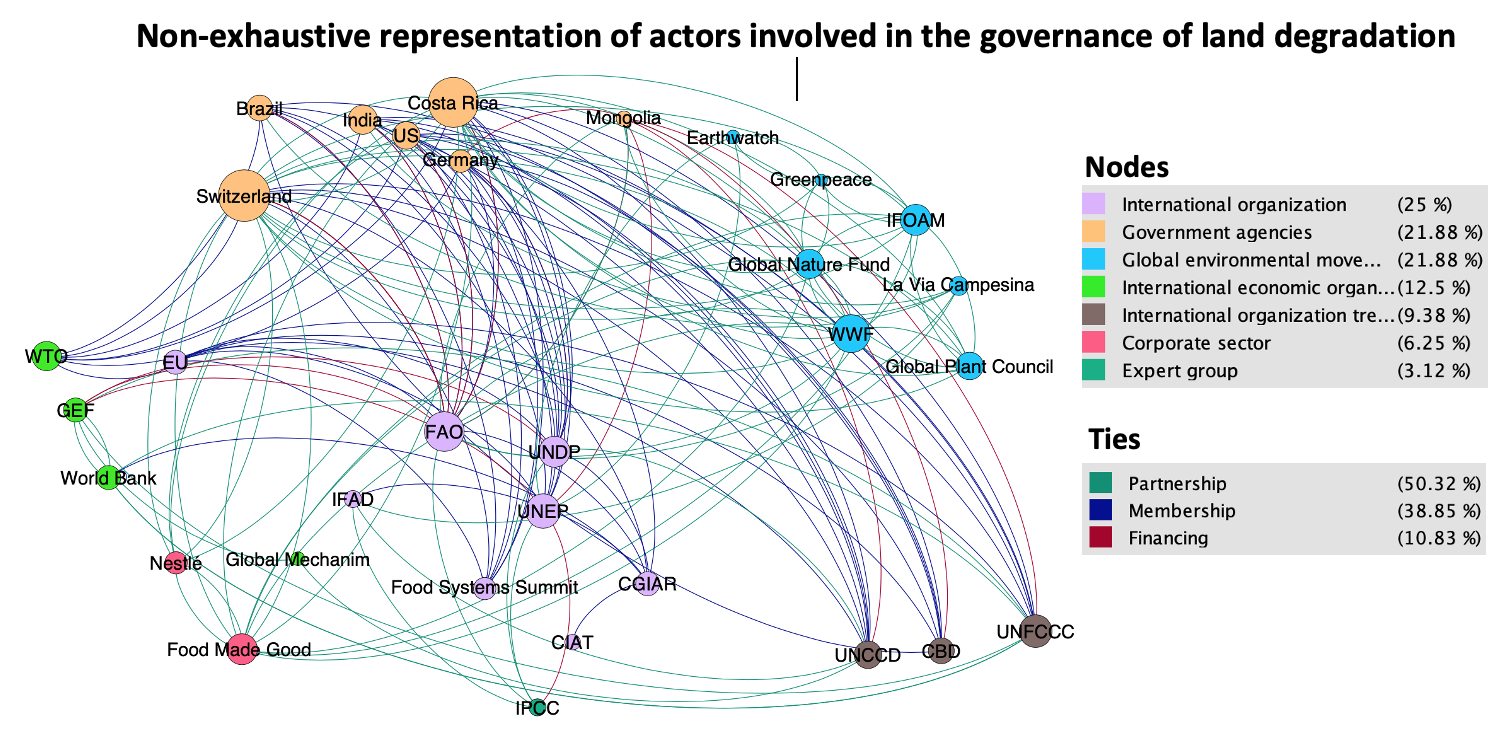
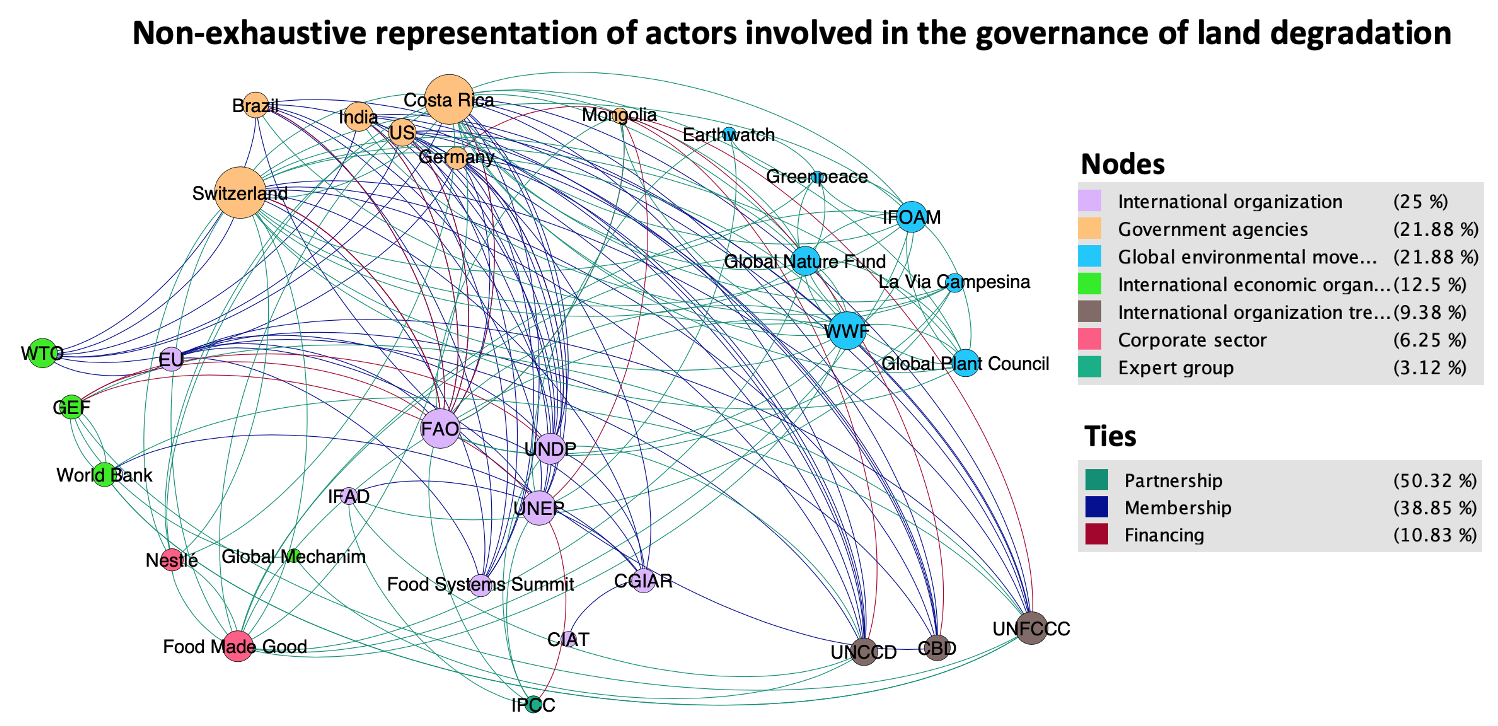
Updated content and config file

diff --git a/content/Issue.md b/content/Issue.md
@@ -5,10 +5,12 @@ showDate: false
 ---
 
 
-According to [recent studies](https://www.nationalgeographic.com/science/article/ipbes-land-degradation-environmental-damage-report-spd), approximately 75% of the world's land area is already degraded. With the population growth and the consumption level increasing in developing countries, demand for food and therefore arable land will keep increase. The food system is indeed responsible for a large part of land degradation as the main causes are the intensification of agriculture production, overgrazing, deforestation, but fuelwood overconsumption and urbanization are also important factors([UNISFÉRA 2005](http://hubrural.org/IMG/pdf/unisfera_from_boom_to_dust.pdf)). As globalization and more specifically trade liberalization in agricultural commodities continue to nourish the main drivers of land degradation, institutions have been created to respond to this specific issue and intent to coordinate actions between states to tackle the challenge. 
-
+According to [recent studies](https://www.nationalgeographic.com/science/article/ipbes-land-degradation-environmental-damage-report-spd), approximately 75% of the world's land area is already degraded. With the population growth and the consumption level increasing in developing countries, demand for food and therefore arable land will keep increase. The food system is indeed responsible for a large part of land degradation as the main causes are the intensification of agriculture production, overgrazing, deforestation, but fuelwood overconsumption and urbanization are also important factors ([UNISFÉRA 2005](http://hubrural.org/IMG/pdf/unisfera_from_boom_to_dust.pdf)). As globalization and more specifically trade liberalization in agricultural commodities continue to nourish the main drivers of land degradation, institutions have been created to respond to this specific issue and intent to coordinate actions between states to tackle the challenge. 
 ![](/soildegradation.png)
-`Source: human induced land degradation from: https://www.asente.ch/environmental-issues/land-degradation/`
+###### Source: human induced land degradation from: https://www.asente.ch/environmental-issues/land-degradation/ 
+
+ 
+ 
 
 But first, let's first dive into the different definitions of land degradation to better understand what the institutions are fighting against. They can differ depending on the sources, with some of them giving more emphasis for certain elements than other. According to the [IPCC 2019 report](https://www.ipcc.ch/site/assets/uploads/sites/4/2019/11/07_Chapter-4.pdf), land degradation could be defined as such:
 
@@ -17,7 +19,7 @@ But first, let's first dive into the different definitions of land degradation t
 In other terms, land degradation is the deterioration of the soils' quality which is caused either by human or by nature. However, human-induced land degradation is about 13-40 times more important than the natural rate of land degradation ([Rahaman & Solavagounder, 2020](https://www.researchgate.net/publication/348324052_Natural_And_Human-Induced_Land_Degradation_And_Its_Impact_Using_Geospatial_Approach_In_The_Kallar_Watershed_Of_Tamil_Nadu_India)). The rapidity at which the soils are destroyed is a big threat for food security, as about five to six million ha are permanently degraded and lost to agriculture ([UNISFÉRA, 2019](http://hubrural.org/IMG/pdf/unisfera_from_boom_to_dust.pdf)). The main types of soil degradation are water erosion, wind erosion, chemical deterioration and physical deterioration ([SSWM 2020](https://sswm.info/sswm-university-course/module-8-water-and-sanitation-future-challenges/further-resources-phosphorus/soil-degradation)). Some types of soil degradation are related to the zones where this happens as explained below.
 
 
-##### Land degradation and desertification
+# Land degradation and desertification
 
 The distinction between this two concepts is crucial as institutions analyzed later in this blog will focus on desertification. As highlighted on [FAO's website](http://www.fao.org/3/v4360e/v4360e03.htm#:~:text=type%20of%20degradation.-,Types%20of%20land%20degradation%20assessed,lowering%20of%20the%20water%20table.):
 
@@ -26,9 +28,9 @@ The distinction between this two concepts is crucial as institutions analyzed la
 This type of land degradation is found at the intersect of socioeconomic drivers and environmental drivers which makes it more complex for states to tackle it. As presented in the map below, most of the places at risk of desertification are found where vulnerable population live such as in the Sahel, Northern Africa, in the Middle East, Central Asia and some areas in Southern Asia and Latin America ([UNISFÉRA, 2019](http://hubrural.org/IMG/pdf/unisfera_from_boom_to_dust.pdf)). This create a vicious circle where population do not have capacities and knowledge to adopt sustainable agricultural practices and therefore lands are degraded more rapidly. Combat desertification require a large spectrum of actors, impacting at different levels of the society.
 
 ![](/Desertification.png)
-`Source: desertification vulnerability from: https://en.wikipedia.org/wiki/Desertification`
+###### Source: desertification vulnerability from: https://en.wikipedia.org/wiki/Desertification
 
-##### Extra information
+# Extra information
 
 To better understand the process in which the land is degraded, the importance of tackling this issue and why it is such a complex environmental issue, please watch the full video below produced by FAO. 
  

diff --git a/content/Who.md b/content/Who.md
@@ -4,25 +4,21 @@ date: 2020-22-05
 showDate: false
 ---
 
-Now, let's take a look at the map of the actors intervening in the land degradation institutional governance.
+Now, let's take a closer look at the map of the actors intervening in the land degradation institutional governance.
 
 ![](/actorsmap.png)
 
-There are many different types of actors intervening in the governance of land degradation. 
+There are many different types of actors intervening in the governance of land degradation, this is only few of them. The main institutions from the United Nations system are the FAO, UNEP and UNDP, when the international environmental agreements covering partially the issue of land degradation are the CBD, UNFCCC and UNCCD. Some additional actors are present in the map such as countries particularly involved in programs, partnerships about land protection. Private actors are also present as they partner a lot with public sector and NGOs in order to implement some programs and initiative on soil degradation. Public-private partnerships are growing in number in the last years as UN institutions and governments are often lacking the funding. The ties that are linking the actors are either membership (specially states to institutions), partnerships (private and public sector with NGOs) and financing, such as UN institution to the expert group IPCC or international economic organization such as the GEF, World Bank to UN institutions. 
 
-###### Main points presented:
-- Different actors intervening => look at the institutions more closely (FAO, UNEP, UNDP, UNFCCC, CBD but more importantly, UNCCD => treating specifically land degradation! 
-- Emphasize on UNCCD => for this blog, this was the choice I made, see the role of the institution in this actors network. 
+In this network of actors, this blog will focus on one institution in particular. The main international environmental agreement covering at least a major part of land degradation is the United Nation Convention to Combat Desertification (UNCCD). This map helps to visualise the ties with other actor, have an overview of the complexity of the governance and also, how the institution is acting in coordination with all the others. First, it can be useful also to have an idea of where this institution is acting according to the others and what is its precise scope of actions
 
 
-The infographic below is giving an overview of the main actors involved in land degradation. Special focus is given to agriculture factors => give emphasize on the main cause of land degradation. How important this driver is. The only convention treating specifically about land degradation is UNCCD. 
+# Where do they act?
+The infographic below is giving an overview of the main actors involved in land degradation but with their role highlighted in the issue. As land degradation main causes are related to agriculture, the infographic gives a special focus on the food system. The production, trade and consumption of food is particularly impacting the soil as intensive agriculture, the overuse of chemicals and monoculture are deteriorating the soil, the quality of food and the yields. All of that, plus the climate change intensifying the extreme weather events, drylands are at particular risks of desertification. 
 
-###### Main points presented:
-- The relationship between the problem and the institutions => UNCCD roles => neglect the parts 
-- **Also reworked slightly the infograph to highlight UNCCD role (and what the convention is not covering specifically => desertification is only one type of land degradation!)**
 
-![](/infographic.png)
+![](/info.png)
 
 
 
-#### The part until here: around 1000 words
+

diff --git a/content/about.md b/content/about.md
@@ -1,10 +1,10 @@
 ---
-title: "Land Degradation"
+title: "Welcome!"
 date: 2020-12-15T19:33:25+01:00
 showDate: false
 ---
 
-##  Welcome!
+##  What will you learn in this blog?
 
 
 > Land degradation is a very complex environmental issue that demands in-deep analysis to understand what are the roles of the actors in the institutional governance and what is the biggest challenge they face. This blog aims to dive into this particular issue to highlight the institutions' role and what they should overcome to solve this issue. The analysis will be in four different parts. The two first parts will be more descriptive and focused on the definitions of the concepts and the actors network. The third part presents the institutions's role, with a special focus on the United Nations Convention to Combat Desertification (UNCCD) and the analysis of the performance and efficiency in solving the problem. The last part  focuses on some suggestions and ideas on how institutions features could be adapted to better respond to the issue. 
